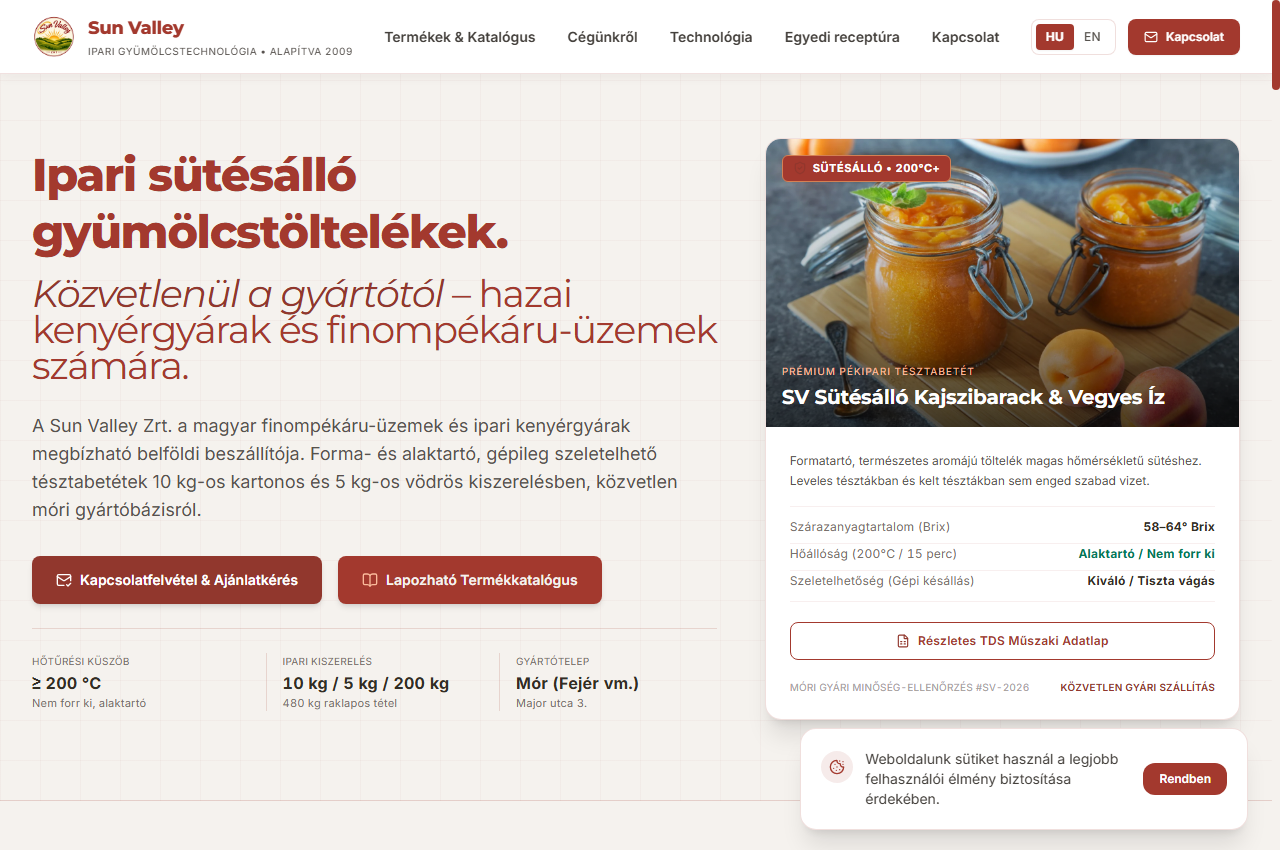
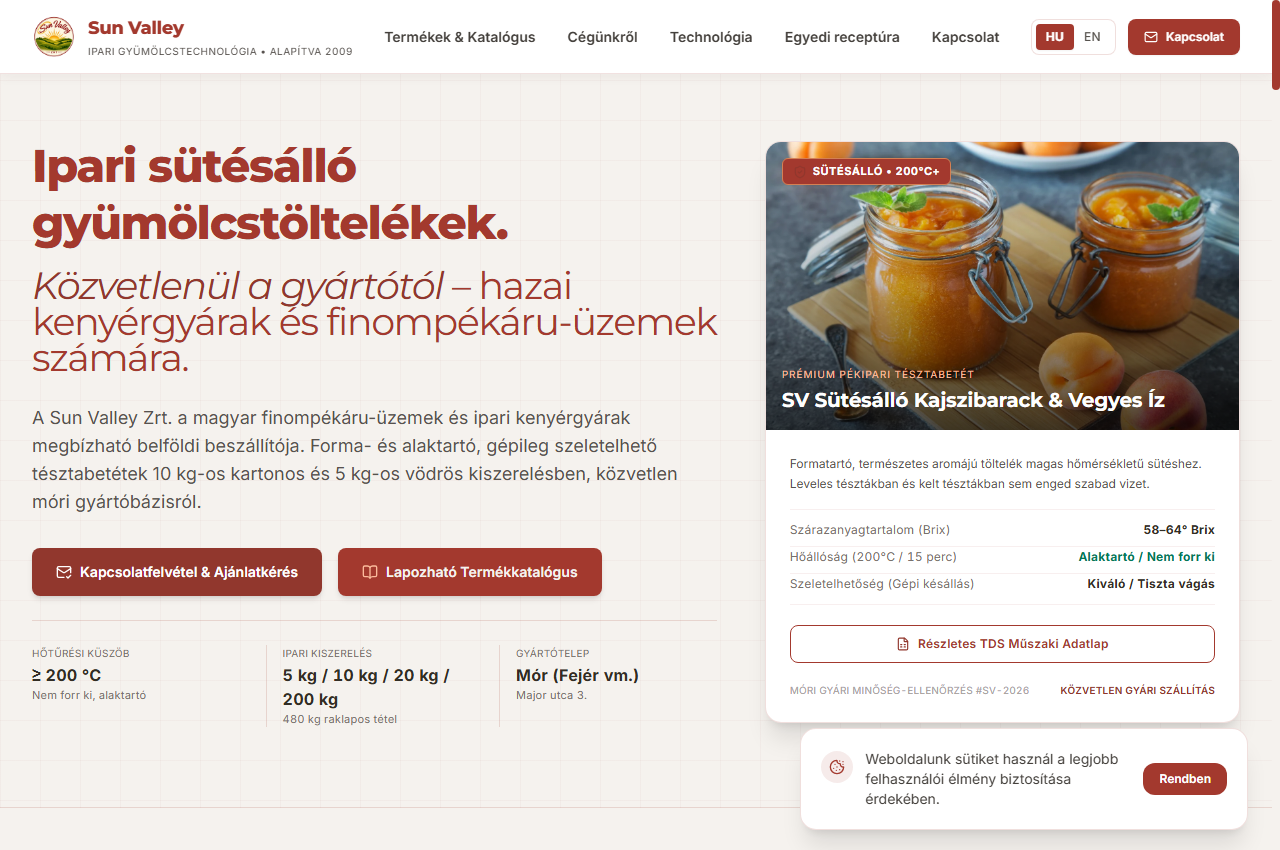
feat(packaging): add 20 kg to industrial packaging telemetry and specifications

diff --git a/index.html b/index.html
@@ -418,7 +418,7 @@
             </div>
             <div class="sm:border-l sm:pl-4" style="border-color: var(--sv-border);">
               <div class="text-[10px] uppercase text-stone-500" data-i18n="telemetry_pack_label">Ipari Kiszerelés</div>
-              <div class="font-bold text-sm sm:text-base text-stone-900 mt-0.5">10 kg / 5 kg / 200 kg</div>
+              <div class="font-bold text-sm sm:text-base text-stone-900 mt-0.5">5 kg / 10 kg / 20 kg / 200 kg</div>
               <div class="text-[11px] text-stone-500" data-i18n="telemetry_pack_sub">480 kg raklapos tétel</div>
             </div>
             <div class="sm:border-l sm:pl-4" style="border-color: var(--sv-border);">
@@ -1040,7 +1040,7 @@
             <div class="flex items-center justify-between">
               <span class="font-mono-spec text-sm font-bold text-stone-700">04</span>
               <span class="text-[10px] font-mono-spec font-bold px-2 py-0.5 rounded text-white bg-stone-800">
-                5 KG • 10 KG • 200 KG
+                5 KG • 10 KG • 20 KG • 200 KG
               </span>
             </div>
             <div>
@@ -1052,7 +1052,7 @@
               </h3>
             </div>
             <p class="text-xs text-stone-600 leading-relaxed" data-i18n="tech_card4_desc">
-              5 kg-os vödörben a cukrászatoknak, 10 kg-os szeletelhető kartontömbökben kenyérgyáraknak, vagy 200 kg-os hordókban nagyüzemeknek.
+              5 kg-os vödörben a cukrászatoknak, 10–20 kg-os szeletelhető kartontömbökben kenyérgyáraknak, vagy 200 kg-os hordókban nagyüzemeknek.
             </p>
           </div>
           <div class="pt-4 mt-4 border-t font-mono-spec text-[11px] text-stone-600 font-semibold" style="border-color: var(--sv-border-light);">
@@ -1663,7 +1663,7 @@
         tech_card2_title: "Fagyasztásállóság",
         tech_card3_desc: "A kézi kenéstől a nagyteljesítményű automata tüskés injektálósorokig (fánkok, croissant-ok) állandó, nyírásra stabil viszkozitás.",
         tech_card3_title: "Gépi Tölthetőség & Pumpálás",
-        tech_card4_desc: "5 kg-os vödörben a cukrászatoknak, 10 kg-os szeletelhető kartontömbökben kenyérgyáraknak, vagy 200 kg-os hordókban nagyüzemeknek.",
+        tech_card4_desc: "5 kg-os vödörben a cukrászatoknak, 10–20 kg-os szeletelhető kartontömbökben kenyérgyáraknak, vagy 200 kg-os hordókban nagyüzemeknek.",
         tech_card4_title: "Kis Szériától Ipari Léptékig",
         tech_section_desc: "A finompékáru-gyártásban a selejtképződés legfőbb oka a töltelék kiforrása, a tészta elázása vagy a gépi adagolófejek eldugulása. A Sun Valley Zrt. hidrokolloid- és pektinmátrixa négy technológiai alappillérre épül:",
         tech_section_tag: "Élelmiszer-technológiai Garanciák",
@@ -1861,7 +1861,7 @@
         tech_card2_title: "Freeze-Thaw Stability",
         tech_card3_desc: "Shear-thinning viscosity designed for automated needle depositors (doughnuts, croissants) without dripping.",
         tech_card3_title: "Automated Dosing & Injection",
-        tech_card4_desc: "5 kg buckets for artisan confectionery, 10 kg sliceable carton blocks, and 200 kg aseptic drums for large plants.",
+        tech_card4_desc: "5 kg buckets for artisan confectionery, 10–20 kg sliceable carton blocks, and 200 kg aseptic drums for large plants.",
         tech_card4_title: "From Trial to Factory Scale",
         tech_section_desc: "In commercial pastry production, scrap rates are driven by boil-outs, crust sogginess, or nozzle clogging. Sun Valley's hydrocolloid matrix is built on four core technical pillars:",
         tech_section_tag: "Food Engineering Assurances",

diff --git a/scripts/compile_v2.py b/scripts/compile_v2.py
@@ -427,7 +427,7 @@ def generate_html():
             </div>
             <div class="sm:border-l sm:pl-4" style="border-color: var(--sv-border);">
               <div class="text-[10px] uppercase text-stone-500" data-i18n="telemetry_pack_label">Ipari Kiszerelés</div>
-              <div class="font-bold text-sm sm:text-base text-stone-900 mt-0.5">10 kg / 5 kg / 200 kg</div>
+              <div class="font-bold text-sm sm:text-base text-stone-900 mt-0.5">5 kg / 10 kg / 20 kg / 200 kg</div>
               <div class="text-[11px] text-stone-500" data-i18n="telemetry_pack_sub">480 kg raklapos tétel</div>
             </div>
             <div class="sm:border-l sm:pl-4" style="border-color: var(--sv-border);">
@@ -1049,7 +1049,7 @@ def generate_html():
             <div class="flex items-center justify-between">
               <span class="font-mono-spec text-sm font-bold text-stone-700">04</span>
               <span class="text-[10px] font-mono-spec font-bold px-2 py-0.5 rounded text-white bg-stone-800">
-                5 KG • 10 KG • 200 KG
+                5 KG • 10 KG • 20 KG • 200 KG
               </span>
             </div>
             <div>
@@ -1061,7 +1061,7 @@ def generate_html():
               </h3>
             </div>
             <p class="text-xs text-stone-600 leading-relaxed" data-i18n="tech_card4_desc">
-              5 kg-os vödörben a cukrászatoknak, 10 kg-os szeletelhető kartontömbökben kenyérgyáraknak, vagy 200 kg-os hordókban nagyüzemeknek.
+              5 kg-os vödörben a cukrászatoknak, 10–20 kg-os szeletelhető kartontömbökben kenyérgyáraknak, vagy 200 kg-os hordókban nagyüzemeknek.
             </p>
           </div>
           <div class="pt-4 mt-4 border-t font-mono-spec text-[11px] text-stone-600 font-semibold" style="border-color: var(--sv-border-light);">
@@ -1672,7 +1672,7 @@ def generate_html():
         tech_card2_title: "Fagyasztásállóság",
         tech_card3_desc: "A kézi kenéstől a nagyteljesítményű automata tüskés injektálósorokig (fánkok, croissant-ok) állandó, nyírásra stabil viszkozitás.",
         tech_card3_title: "Gépi Tölthetőség & Pumpálás",
-        tech_card4_desc: "5 kg-os vödörben a cukrászatoknak, 10 kg-os szeletelhető kartontömbökben kenyérgyáraknak, vagy 200 kg-os hordókban nagyüzemeknek.",
+        tech_card4_desc: "5 kg-os vödörben a cukrászatoknak, 10–20 kg-os szeletelhető kartontömbökben kenyérgyáraknak, vagy 200 kg-os hordókban nagyüzemeknek.",
         tech_card4_title: "Kis Szériától Ipari Léptékig",
         tech_section_desc: "A finompékáru-gyártásban a selejtképződés legfőbb oka a töltelék kiforrása, a tészta elázása vagy a gépi adagolófejek eldugulása. A Sun Valley Zrt. hidrokolloid- és pektinmátrixa négy technológiai alappillérre épül:",
         tech_section_tag: "Élelmiszer-technológiai Garanciák",
@@ -1870,7 +1870,7 @@ def generate_html():
         tech_card2_title: "Freeze-Thaw Stability",
         tech_card3_desc: "Shear-thinning viscosity designed for automated needle depositors (doughnuts, croissants) without dripping.",
         tech_card3_title: "Automated Dosing & Injection",
-        tech_card4_desc: "5 kg buckets for artisan confectionery, 10 kg sliceable carton blocks, and 200 kg aseptic drums for large plants.",
+        tech_card4_desc: "5 kg buckets for artisan confectionery, 10–20 kg sliceable carton blocks, and 200 kg aseptic drums for large plants.",
         tech_card4_title: "From Trial to Factory Scale",
         tech_section_desc: "In commercial pastry production, scrap rates are driven by boil-outs, crust sogginess, or nozzle clogging. Sun Valley's hydrocolloid matrix is built on four core technical pillars:",
         tech_section_tag: "Food Engineering Assurances",

diff --git a/CONTEXT.md b/CONTEXT.md
@@ -37,7 +37,7 @@ Agents must strictly use these definitions and avoid inventing generic, consumer
 | Term (HU) | English Equivalent (EN) | German Equivalent (DE) | Definition & Context |
 | :--- | :--- | :--- | :--- |
 | **Sütésálló gyümölcstöltelék** | Thermo-stable / Bake-stable fruit preparation | Backstabile Fruchtzubereitung / Fruchtfüllung | High-viscosity fruit preparation engineered not to boil out, liquefy, or burn during high-temperature baking (200 °C+). |
-| **Szeletelhető vegyes gyümölcsíz** | Sliceable mixed fruit block | Schnittfeste gemischte Fruchtfüllung | 10 kg block fruit filling specifically formulated for industrial slicing and automated dough encrusting. |
+| **Szeletelhető vegyes gyümölcsíz** | Sliceable mixed fruit block | Schnittfeste gemischte Fruchtfüllung | 10–20 kg block fruit filling specifically formulated for industrial slicing and automated dough encrusting. |
 | **Kenhető gyümölcskészítmény** | Spreadable fruit preparation | Streichfähige Fruchtzubereitung | 5 kg bucket cold-spreadable fruit filling for sponge cakes, linzer pastries, and cold confectionery layering. |
 | **Üzemi próbagyártási minta** | Industrial trial batch sample | Betriebliches Produktionsmuster / Probemuster | Sample container (5–10 kg bucket) sent directly to bakery plants for pilot test baking. |
 | **Technikai adatlap (TDS)** | Technical Data Sheet (TDS) | Technisches Datenblatt (TDS) | Specification document outlining Brix degree, pH value, fruit content %, water activity ($a_w$), and allergen declarations. |
